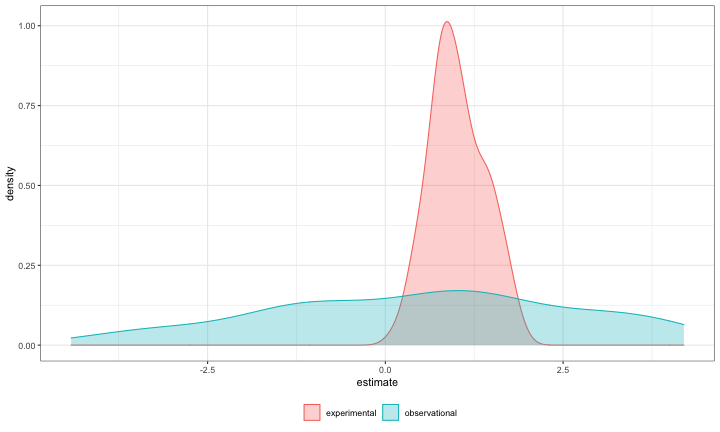
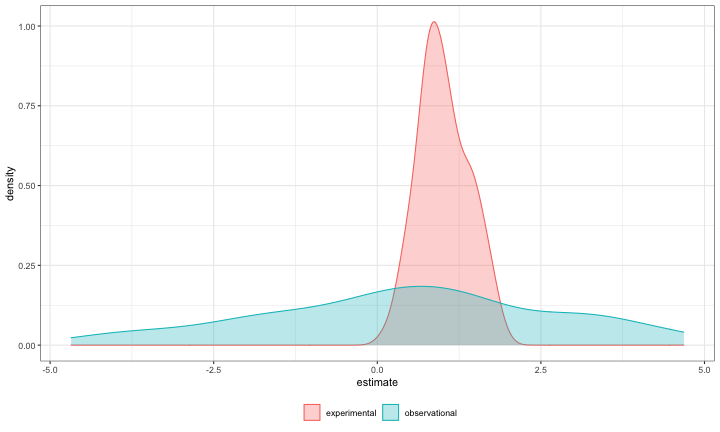
fix rounding in lecture 18

diff --git a/lectures/18-power-3.html b/lectures/18-power-3.html
@@ -218,8 +218,8 @@ sim_con = function(n){
     x[outside_range] = rnorm(length(outside_range), 0, .5) 
     outside_range = which(x &gt; 1 | x &lt; -1)  # check
   }
-  
-  rounded = round(x/.2)*.2                 # convert to 9 point scale
+  # convert to 9 point scale
+  rounded = plyr::round_any(x, accuracy = .25)  
   return(rounded)                          # output of function
 }
 ```
@@ -239,8 +239,8 @@ table(X)
 
 ```
 ## X
-##   -1 -0.8 -0.6 -0.4 -0.2    0  0.2  0.4  0.6  0.8    1 
-##    1    3    9   12   18   14   14   10   13    4    2
+##    -1 -0.75  -0.5 -0.25     0  0.25   0.5  0.75     1 
+##     2     7    10    22    16    17    18     5     3
 ```
 
 ```r
@@ -248,7 +248,7 @@ cor(X,Z)
 ```
 
 ```
-## [1] -0.1044718
+## [1] -0.1427566
 ```
 ---
 
@@ -267,20 +267,20 @@ summary(lm(Y ~ X*Z))
 ## 
 ## Residuals:
 ##      Min       1Q   Median       3Q      Max 
-## -11.8212  -2.4142   0.1027   2.5887  12.5324 
+## -11.5852  -2.3361   0.0421   2.4987  12.6863 
 ## 
 ## Coefficients:
-##              Estimate Std. Error t value Pr(&gt;|t|)  
-## (Intercept)  0.871585   0.428996   2.032   0.0449 *
-## X           -1.046351   0.953827  -1.097   0.2754  
-## Z            0.008329   1.014069   0.008   0.9935  
-## X:Z          4.317757   2.522180   1.712   0.0901 .
+##             Estimate Std. Error t value Pr(&gt;|t|)  
+## (Intercept)   0.8532     0.4322   1.974   0.0512 .
+## X            -0.8926     0.9387  -0.951   0.3441  
+## Z            -0.1403     1.0104  -0.139   0.8899  
+## X:Z           3.2863     2.2175   1.482   0.1416  
 ## ---
 ## Signif. codes:  0 '***' 0.001 '**' 0.01 '*' 0.05 '.' 0.1 ' ' 1
 ## 
-## Residual standard error: 4.252 on 96 degrees of freedom
-## Multiple R-squared:  0.03981,	Adjusted R-squared:  0.009806 
-## F-statistic: 1.327 on 3 and 96 DF,  p-value: 0.2702
+## Residual standard error: 4.271 on 96 degrees of freedom
+## Multiple R-squared:  0.03114,	Adjusted R-squared:  0.0008583 
+## F-statistic: 1.028 on 3 and 96 DF,  p-value: 0.3836
 ```
 
 ---
@@ -362,7 +362,7 @@ mean(obeta_xz)
 ```
 
 ```
-## [1] 0.4918059
+## [1] 0.4579002
 ```
 
 ![](18-power-3_files/figure-html/unnamed-chunk-13-1.png)&lt;!-- --&gt;
@@ -383,7 +383,7 @@ mean(ot_xz)
 ```
 
 ```
-## [1] 0.2338885
+## [1] 0.218902
 ```
 
 ![](18-power-3_files/figure-html/unnamed-chunk-15-1.png)&lt;!-- --&gt;
@@ -407,10 +407,10 @@ sum(osig)
 ```
 
 ```
-## [1] 1
+## [1] 2
 ```
 
-In our simulation, 66% of experimental studies were statistically significant, whereas only 1% of observational studies were significant. Remember, we built our simulation based on data where there really is an interaction effect (i.e., the null is false). 
+In our simulation, 66% of experimental studies were statistically significant, whereas only 2% of observational studies were significant. Remember, we built our simulation based on data where there really is an interaction effect (i.e., the null is false). 
 
 McClelland and Judd found that 74% of experimental studies and 9% of observational studies were significant.
 
@@ -699,7 +699,7 @@ $$
 
 3-way (and higher) interactions are incredibly difficult to interpret, in part because they represent incredibly complex processes. 
 
-If you have a solid theoretical rationale for conducting a 3-day interaction, be sure you've collected enough subjects to power your test (see above). 
+If you have a solid theoretical rationale for conducting a 3-way interaction, be sure you've collected enough subjects to power your test (see above). 
 
 ---
 
